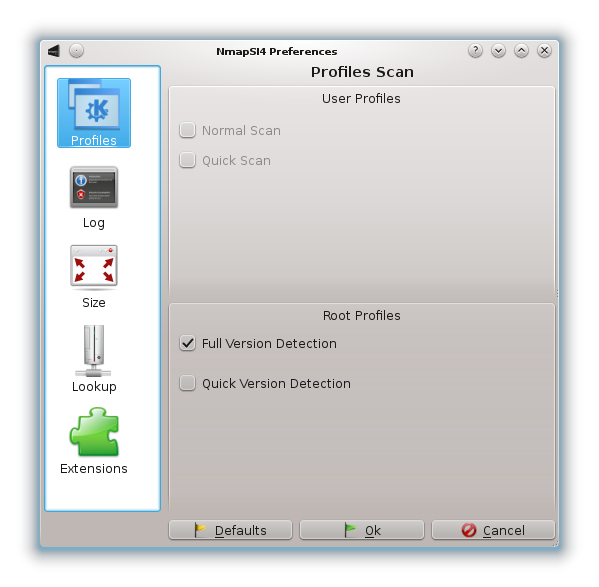
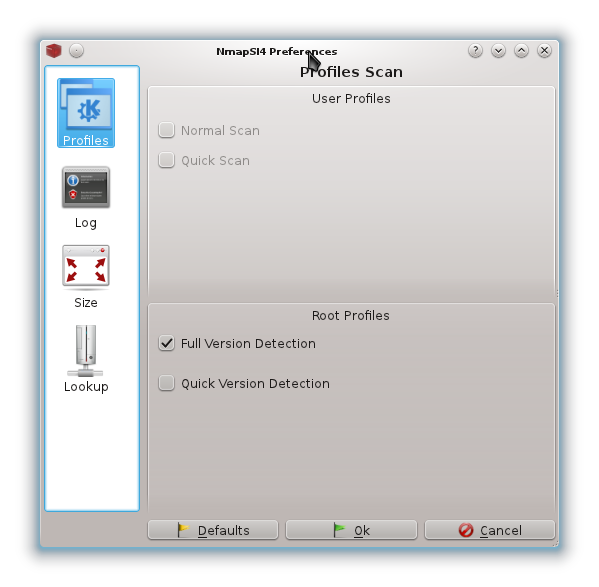
* Aggiornamento documentazione in italiano con screenshot

diff --git a/doc/index_it.html b/doc/index_it.html
@@ -16,7 +16,6 @@
       <ul>
 	<li><a href="index_it.html#dettagli">Dettagli</a></li>
 	<li><a href="index_it.html#nss">(*)NSS</a></li>
-	<li><a href="index_it.html#host_info">(*)Host info</a></li>
 	<li><a href="index_it.html#bookmarks">Preferiti</a></li>
 	<li><a href="index_it.html#bm_parameters">Parametri dei preferiti</a></li>
       </ul>
@@ -39,13 +38,13 @@
     <li><a href="index_it.html#log">Log</a></li>
     <li><a href="index_it.html#size">Dimensioni</a></li>
     <li><a href="index_it.html#lookup">(*)Lookup</a></li>
-    <li><a href="index_it.html#extension">Estensioni</a></li>
   </ul>
 
   <br /><h2>Motore di ricerca vulnerabilit&agrave;</h2>
   <ul>
     <li><a href="index_it.html#vuln_main">Schermata principale</a></li>
     <li><a href="index_it.html#vuln_bookmarks">Preferiti</a></li>
+    <li><a href="index_it.html#vuln_url_bookmarks">Motori di ricerca vulnerabilit&agrave; preferiti</a></li>
   </ul>
 
   <br /><h2>Log reader</h2>
@@ -98,9 +97,6 @@ Qui vengono elencati i risultati della scansione, e nello specifico: la porta de
 Qui vengono mostrati dei risultati in base a degli script presenti nella suite Nmap.
 Per ulteriori informazioni rimandiamo al capitolo specifico della <a href="http://nmap.org/book/nse.html" target="_blank">guida Nmap</a>.<div align="right"><a href="#">Torna su</a></div>
 
-<br /><br /><a name="host_info">Host info</a><br /><img  src="images/13host_info.png" width="50%" /><br />
-Qui sono presenti dettagli relativi alla scansione, come l'ora di inizio, la durata della scansione ed altre informazioni utili.<div align="right"><a href="#">Torna su</a></div>
-
 <br /><br /><a name="bookmarks">Preferiti</a><br /><img  src="images/14bookmarks.png" width="50%" /><br />
 Qui possiamo mantenere i nostri bersagli preferiti. La schermata ci mostra l'ip o il nome host e la data di memorizzazione.<div align="right"><a href="#">Torna su</a></div>
 
@@ -148,9 +144,6 @@ In questa sezione &egrave; possibile cambiare le impostazioni della finestra pri
 <br /><br /><a name="lookup">(*)Lookup</a><br /><img  src="images/preferences/4preferences_lookup.png" width="50%" /><br />
 In questa sezione &egrave; possibile cambiare le impostazioni per il lookup.<div align="right"><a href="#">Torna su</a></div>
 
-<br /><br /><a name="extension">Estensioni</a><br /><img  src="images/preferences/5preferences_extensions.png" width="50%" /><br />
-In questa sezione &egrave; possibile attivare o disattivare le estensioni di NmapSI4.<div align="right"><a href="#">Torna su</a></div>
-
 <br /><br /><hr /><br />
 
 <div align="center"><h2>Motore di ricerca vulnerabilit&agrave;</h2></div>
@@ -161,6 +154,9 @@ Questa sezione mette a disposizione un motore di ricerca per cercare eventuali v
 
 <br /><br /><a name="vuln_bookmarks">Preferiti</a><br /><img  src="images/vuln_bookmarks.png" width="50%" /><br />
 Qui possiamo memorizzare i nostri risultati preferiti.<div align="right"><a href="#">Torna su</a></div>
+
+<br /><br /><a name="vuln_url_bookmarks">Motori di ricerca per vulnerabilit&agrave; preferiti</a><br /><img  src="images/vuln_url_bookmarks.png" width="50%" /><br />
+Qui possiamo aggiungere i nostri motori di ricerca per vulnerabilit&agrave; preferiti.<div align="right"><a href="#">Torna su</a></div>
 
 <br /><br /><hr /><br />
 
